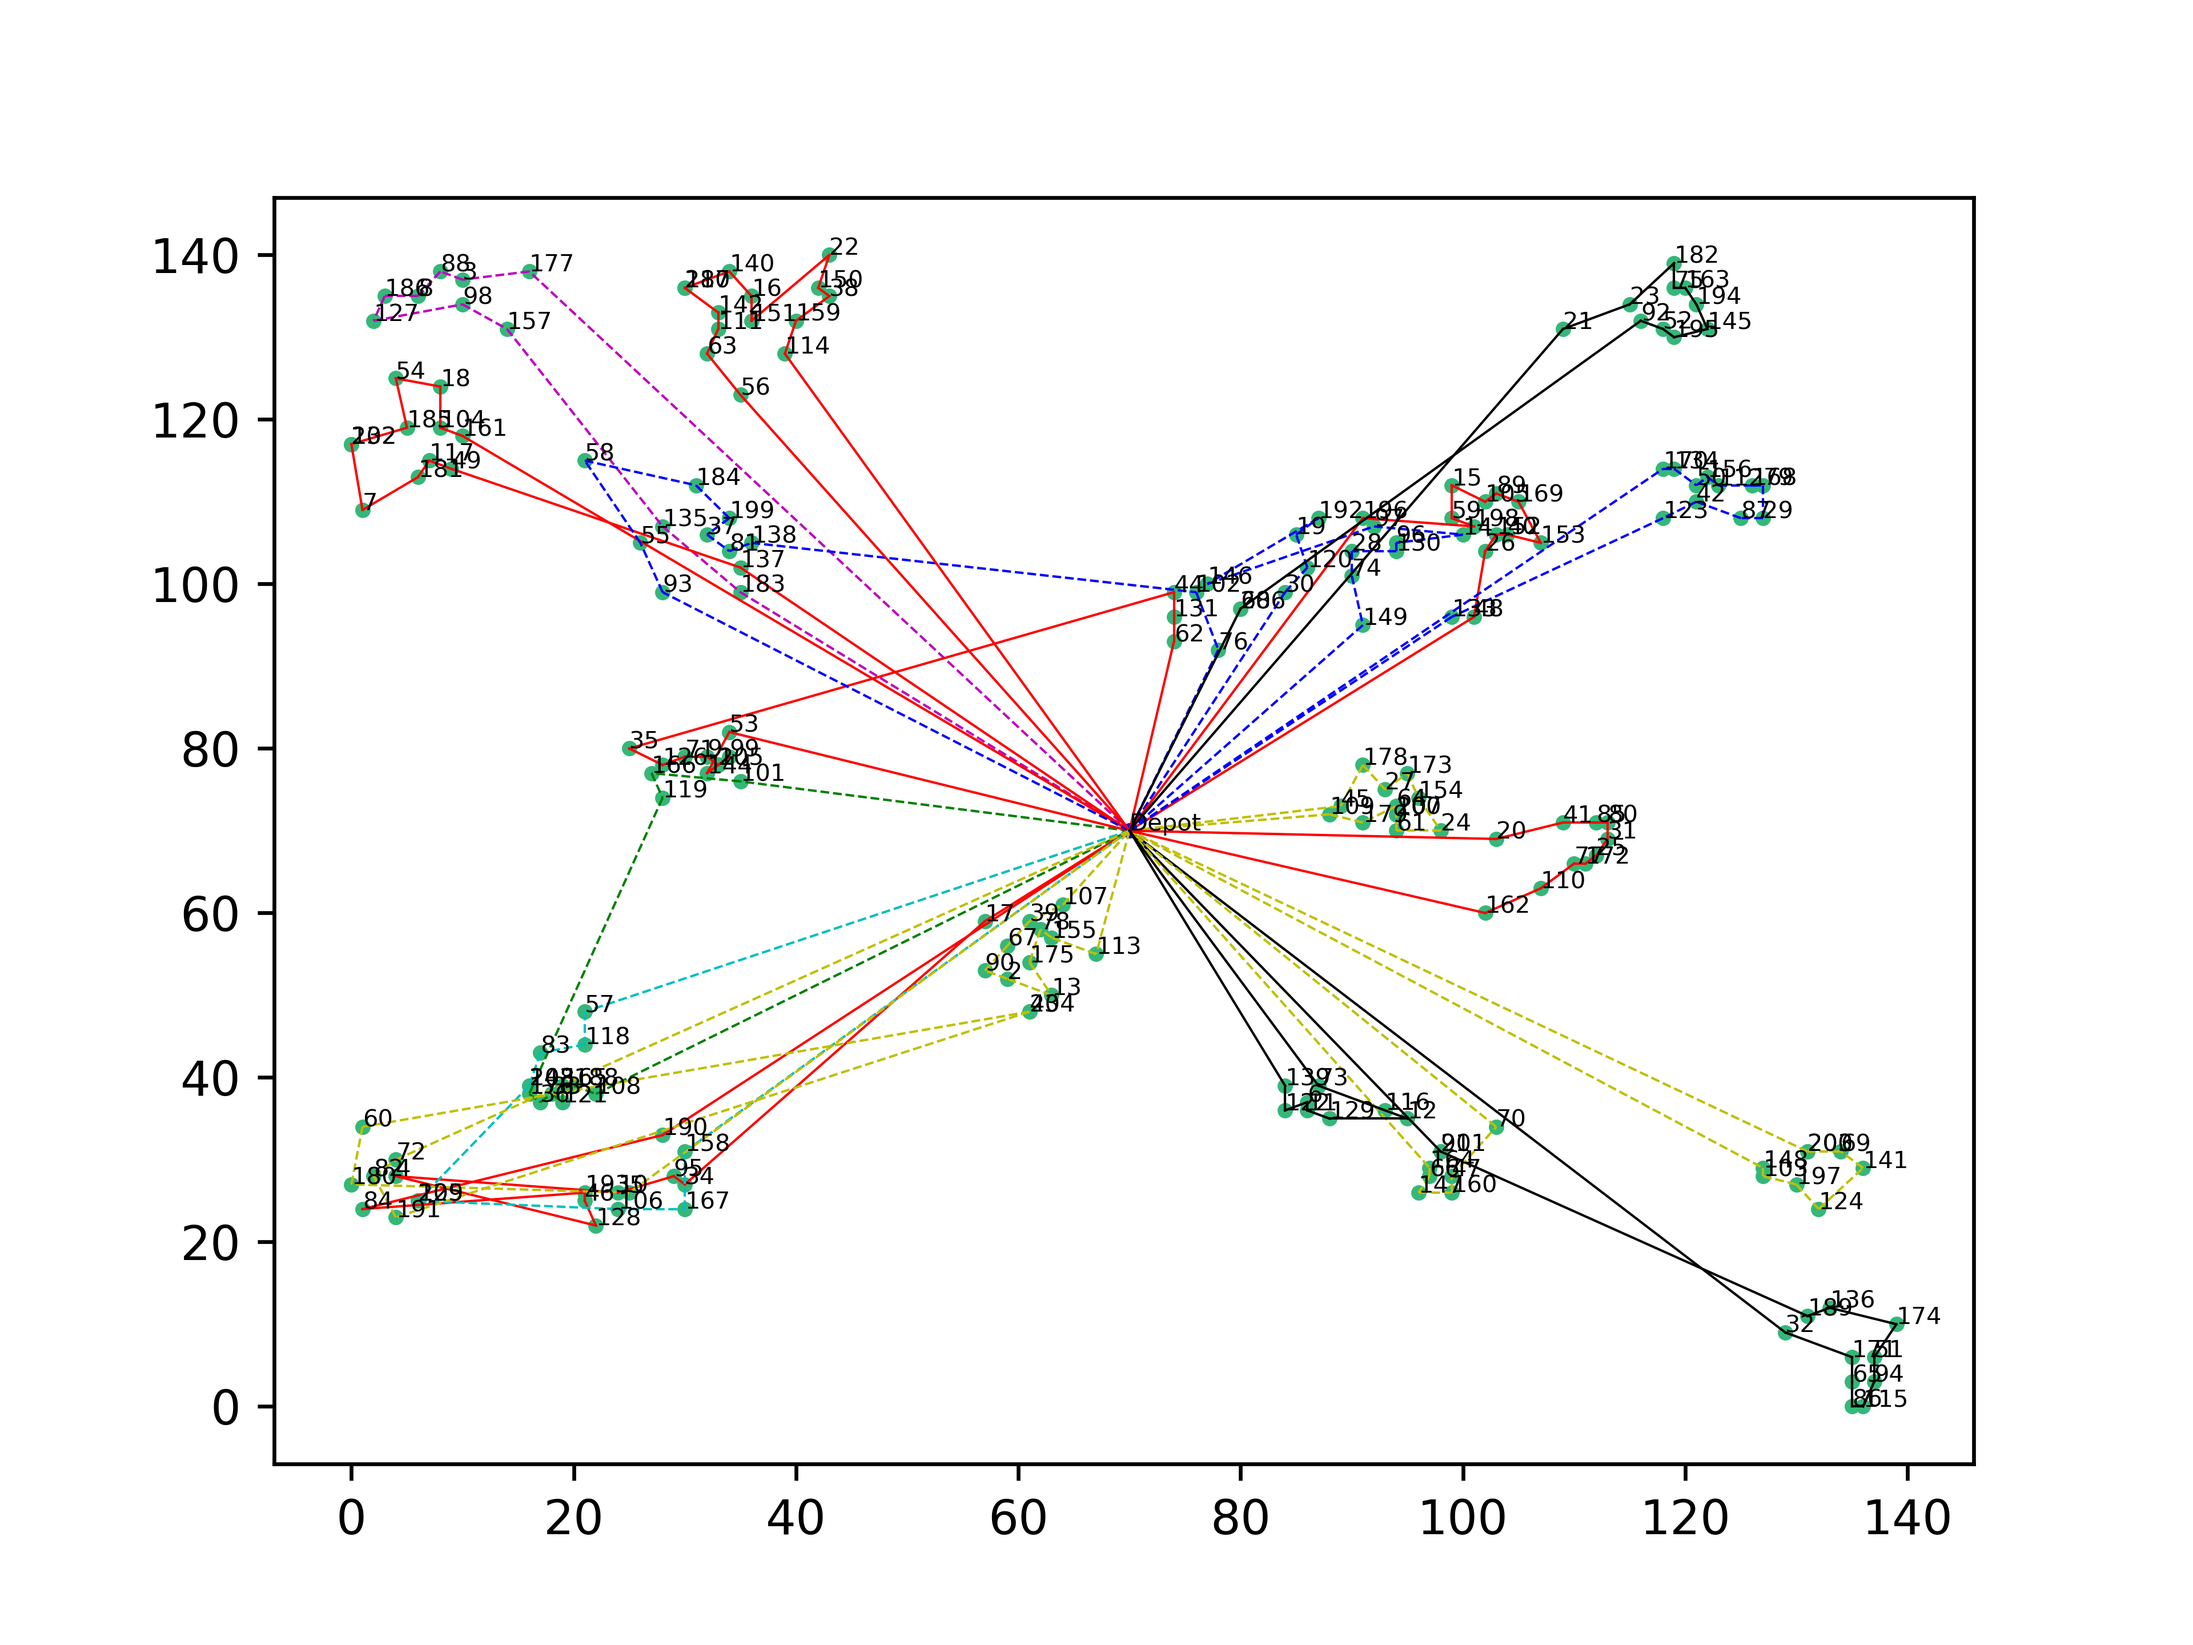
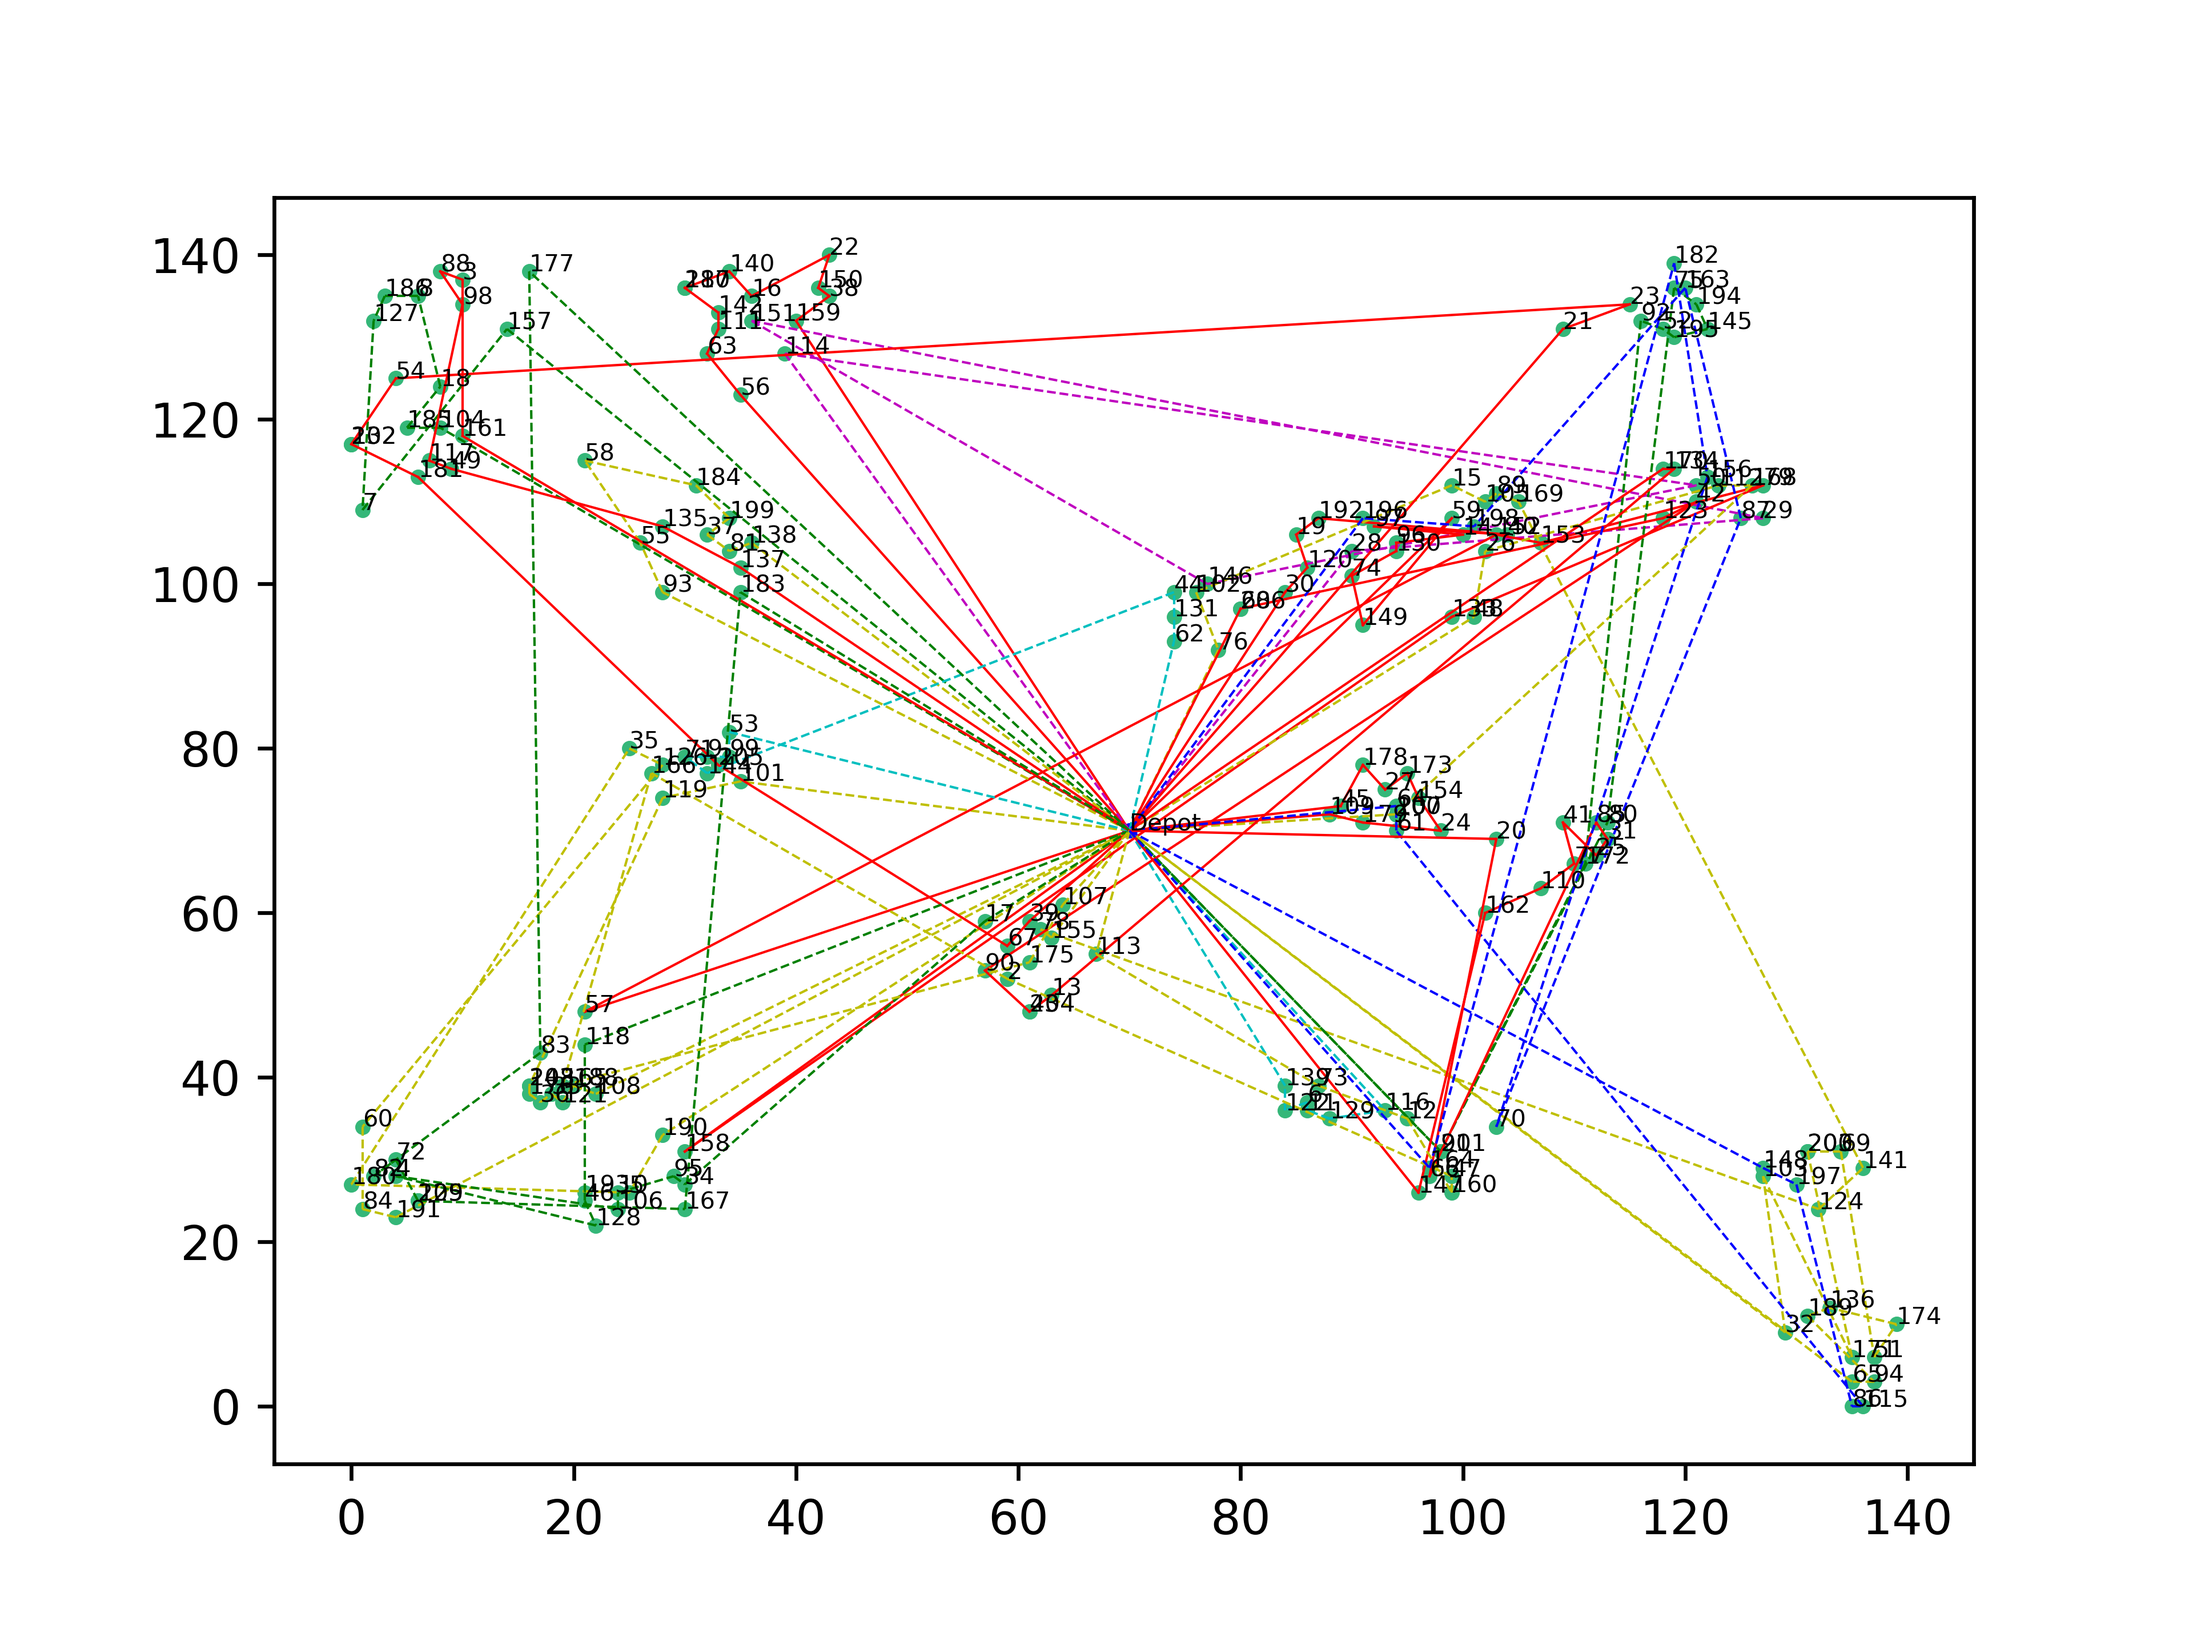
a little change

diff --git a/code/initial_solution.py b/code/initial_solution.py
@@ -6,6 +6,7 @@
 # 本模块为初始解生成代码
 import random
 import copy
+import time
 import math
 import numpy as np
 
@@ -159,42 +160,45 @@ def second_stage(algorithm_input_data, solution, number_of_removal_orders, numbe
 
 
 if __name__ == '__main__':
+    random.seed(100)
+    # 初始化
     number_of_orders = 10
-    path_of_file = '..//data_10'
+    path_of_file = '..//benchmark//200//LC1_2_2'
     algorithm_input_data = Algorithm_inputdata(path_of_file, number_of_orders)
-
-    # test_first_stage pass
-    first_stage_solution = first_stage(algorithm_input_data)
-    first_stage_solution[6] = Truck(6)
+    parameters = {
+        'capacity_max': 200,
+        'time_latest': algorithm_input_data.Nodes.loc[0, 'b']
+    }
+    # 生成初始解
+    first_stage_solution = first_stage(algorithm_input_data, parameters)
+    first_stage_solution_trucks = len(first_stage_solution)
     first_stage_solution_output_path = path_of_file + '//output//first_stage'
     mkdir(first_stage_solution_output_path)
     output_to_picture(first_stage_solution_output_path, first_stage_solution, algorithm_input_data)
-    output_to_log(first_stage_solution_output_path, first_stage_solution)
-    print(sum(truck.travel_distance_line_of_route[-1] for truck in list(first_stage_solution.values())))
+    first_stage_solution_objective = sum(truck.travel_distance_line_of_route[-1] for truck in
+                                         list(first_stage_solution.values())) + algorithm_input_data.M * len([])
+    output_to_log(first_stage_solution_output_path, first_stage_solution, first_stage_solution_objective,
+                  first_stage_solution_trucks)
+    print('first_stage_solution:', first_stage_solution_objective)
 
-    # test_second_stage pass
-    number_of_removal_orders = int(0.3 * len(algorithm_input_data.orders))
-    number_of_iter_LNS = 20
-    second_stage_solution = second_stage(algorithm_input_data, first_stage_solution, number_of_removal_orders, number_of_iter_LNS)
-    output_to_picture('..//output//second_stage', second_stage_solution, algorithm_input_data)
-    output_to_log('..//output//second_stage', second_stage_solution)
-    print(sum(truck.travel_distance_line_of_route[-1] for truck in list(second_stage_solution.values())))
+    # 初始解提升（使用LNS算法减少最小使用车辆和第二目标）
+    number_of_removal_orders = int(0.2 * len(algorithm_input_data.orders))
+    number_of_iter_LNS = int(first_stage_solution_trucks/3)
+    t_3 = time.time()
+    second_stage_solution = second_stage(algorithm_input_data, first_stage_solution, number_of_removal_orders,
+                                         number_of_iter_LNS)
+    t_4 = time.time()
+    print('----------------------', t_4 - t_3)
+    second_stage_solution_trucks = len(second_stage_solution)
+    second_stage_solution_output_path = path_of_file + '//output//second_stage'
+    mkdir(second_stage_solution_output_path)
+    output_to_picture(second_stage_solution_output_path, second_stage_solution, algorithm_input_data)
+    second_stage_solution_objective = sum(truck.travel_distance_line_of_route[-1] for truck in
+                                          list(second_stage_solution.values())) + algorithm_input_data.M * len([])
+    output_to_log(second_stage_solution_output_path, second_stage_solution, second_stage_solution_objective,
+                  second_stage_solution_trucks)
+    print('second_stage_solution:', second_stage_solution_objective)
 
-    # relatedness = relatedness_calculate_all(first_stage_solution, algorithm_input_data)
-    # relatedness_i_with_any = relatedness_calculate(first_stage_solution, 2, algorithm_input_data)
-    D_shaw, solution_shaw = shaw_removal(second_stage_solution, 3, 1000, algorithm_input_data)
-    # delta_f_i_x_ik = delta_f_i_x_ik_calculate(solution_shaw, D_shaw, algorithm_input_data)
-    D_no_regret, solution_regret = regret_insert(solution_shaw, D_shaw, 2, algorithm_input_data)
-    output_to_picture('..//output//solution_regret', solution_regret, algorithm_input_data)
-    output_to_log('..//output//solution_regret', solution_regret)
-    print(sum(truck.travel_distance_line_of_route[-1] for truck in list(solution_regret.values())))
-
-    D_worst, solution_worst = worst_removal(second_stage_solution, 3, 1000, algorithm_input_data)
-    D_no_worst, solution_worst = regret_insert(solution_worst, D_worst, 2, algorithm_input_data)
-    output_to_picture('..//output//solution_worst', solution_worst, algorithm_input_data)
-    output_to_log('..//output//solution_worst', solution_worst)
-    print(sum(truck.travel_distance_line_of_route[-1] for truck in list(solution_worst.values())))
-    print('finish')
 # todo notation here
 # 添加一辆新的无任何任务的车辆进解，在第二阶段可能会出现无法提出该车辆，其原因：
 # 将该车剔除后，使用LNS进行解的测试和改进，1 由于LNS的迭代次数的原因，可能会出现LNS无法破坏解后无法修复（将订单全部安排）

diff --git a/code/ALNS_main.py b/code/ALNS_main.py
@@ -246,7 +246,7 @@ if __name__ == '__main__':
     second_stage_solution = second_stage(algorithm_input_data, first_stage_solution, number_of_removal_orders,
                                          number_of_iter_LNS)
     t_4 = time.time()
-    print('----------------------',t_4 - t_3)
+    print('----------------------', t_4 - t_3)
     second_stage_solution_trucks = len(second_stage_solution)
     second_stage_solution_output_path = path_of_file + '//output//second_stage'
     mkdir(second_stage_solution_output_path)

diff --git a/code/algorithm_data.py b/code/algorithm_data.py
@@ -242,7 +242,12 @@ class Algorithm_inputdata():
 
 
 if __name__ == '__main__':
+    # 初始化
     number_of_orders = 10
-    path_of_file = '..//benchmark//200//LC1_2_10'
+    path_of_file = '..//benchmark//200//LC1_2_2'
     algorithm_input_data = Algorithm_inputdata(path_of_file, number_of_orders)
-    truck = Truck(1)
+    parameters = {
+        'capacity_max': 200,
+        'time_latest': algorithm_input_data.Nodes.loc[0, 'b']
+    }
+    truck = Truck(1, parameters['capacity_max'], parameters['time_latest'])
